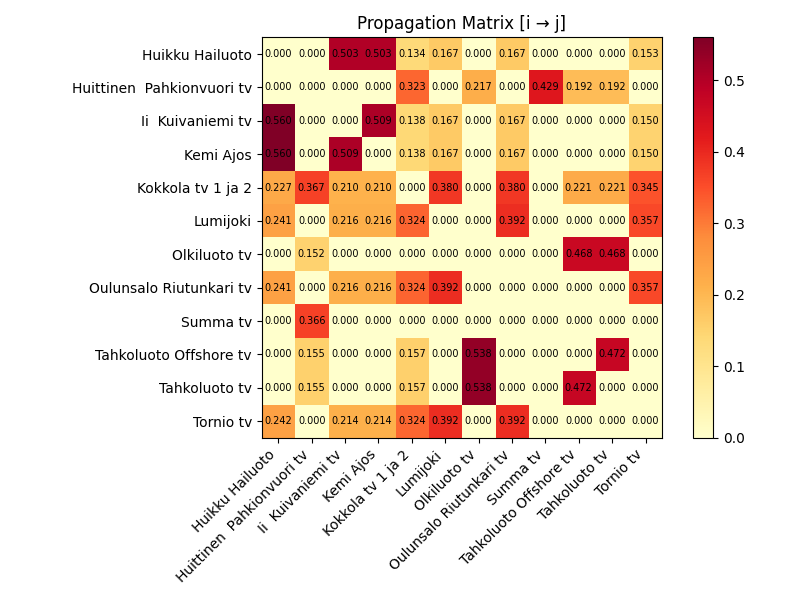
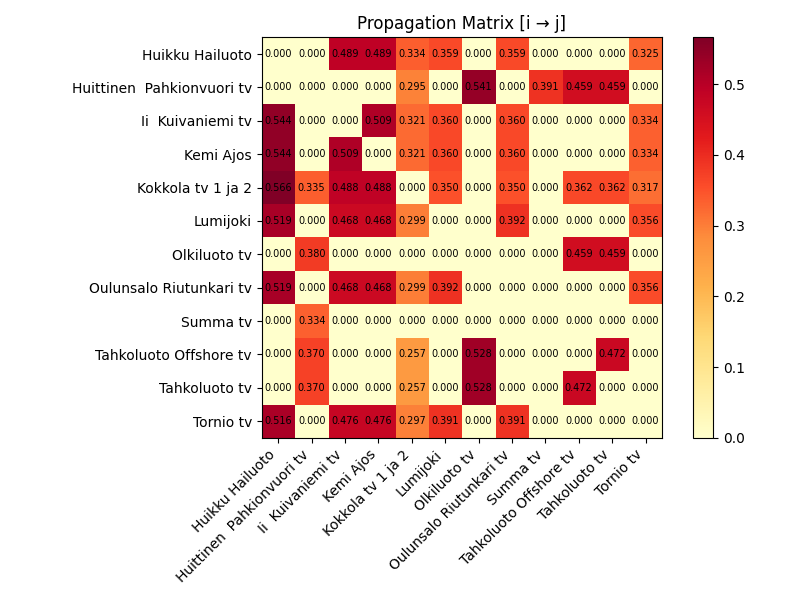
task 13 improvement part 2

diff --git a/probability.py b/probability.py
@@ -4,8 +4,11 @@ import matplotlib.pyplot as plt
 import os 
 import networkx as nx
 import scipy
+import random
+from main import pos as position
 
 #-----------------Task 12-----------------------------------
+plt.close("all")
 
 CUT_IN_THRESHOLD = 3
 CUT_OUT_THRESHOLD = 25
@@ -27,7 +30,7 @@ for file in os.listdir(DIRECTORY):
 k, loc, scale = scipy.stats.weibull_min.fit(gust_speeds, floc=0)
 overall_failure_probability = scipy.stats.weibull_min.cdf(CUT_IN_THRESHOLD, k, loc=0, scale=scale) + (1 - 
                             scipy.stats.weibull_min.cdf(CUT_OUT_THRESHOLD, k, loc=0, scale=scale))
-print(overall_failure_probability)
+#print(overall_failure_probability)
 
 risk_scores = pd.read_csv("combined.csv", usecols=["location", "risk_score_model"])
 #Adding failure probability for each turbine
@@ -37,7 +40,7 @@ risk_scores.insert(2, "failure_probability", risk_scores["risk_score_model"]
 
 edgelist = nx.to_pandas_edgelist(G)
 #print(edgelist)
-print(risk_scores)
+#print(risk_scores)
 
 #Creating propagation matrix where row is source of failure
 #and column is the target. Values in cells are probabilities for failure propagation. 
@@ -55,30 +58,36 @@ for i in range(12):
         
         source = risk_scores["location"][i]
         target = risk_scores["location"][j]
-        weight = edge_lookup.get((source, target), 0)
+        weight = np.abs(edge_lookup.get((source, target), 0))
         propagation_matrix[i,j] = weight * risk_scores["risk_score_model"][j]
 
-# Display of the propagation matrix
-fig, ax = plt.subplots(figsize=(8, 6))
-im = ax.imshow(propagation_matrix, cmap="YlOrRd")
+print(propagation_matrix)
 
-plt.colorbar(im, ax=ax)
+def display_heatmap(matrix, risk_score, title, save=False, save_path=None):
+    fig, ax = plt.subplots(figsize=(8, 6))
+    im = ax.imshow(matrix, cmap="YlOrRd")
 
-ax.set_xticks(range(12))
-ax.set_yticks(range(12))
-ax.set_xticklabels(risk_scores["location"], rotation=45, ha="right")
-ax.set_yticklabels(risk_scores["location"])
+    plt.colorbar(im, ax=ax)
 
-for i in range(12):
-    for j in range(12):
-        ax.text(j, i, f"{propagation_matrix[i, j]:.3f}",
-                ha="center", va="center", fontsize=7)
+    ax.set_xticks(range(12))
+    ax.set_yticks(range(12))
+    ax.set_xticklabels(risk_score["location"], rotation=45, ha="right")
+    ax.set_yticklabels(risk_score["location"])
 
-ax.set_title("Propagation Matrix [i → j]")
-plt.tight_layout()
-plt.savefig("plots_and_fiqures/propagation_matrix.png")
-#plt.show()
+    for i in range(12):
+        for j in range(12):
+            ax.text(j, i, f"{matrix[i, j]:.3f}",
+                    ha="center", va="center", fontsize=7)
 
+    ax.set_title(title)
+    plt.tight_layout()
+    if save and save_path is not None:
+        plt.savefig(save_path)
+
+    plt.show()
+
+display_heatmap(propagation_matrix, risk_scores, "Propagation Matrix [i → j]",
+                 save=True, save_path="plots_and_fiqures/propagation_matrix.png")
 #-----------------Task 12-----------------------------------
 adj_list = {}
 node_id = {}
@@ -162,22 +171,79 @@ for loc in all_locations:
 def plot_propagation(failed, risk_score, edgelist, title="Propagation Simulation"):
     graph = nx.from_pandas_edgelist(edgelist, "source", "target", edge_attr="weight")
     
-    pos = nx.spring_layout(graph, seed=42)  # or nx.kamada_kawai_layout(G)
+    pos = position
     
     node_colors = ["red" if node in failed else "steelblue" for node in graph.nodes()]
     node_sizes  = [risk_score["risk_score_model"][node_id[node]] * 1000 for node in graph.nodes()]
     edge_weights = [graph[u][v]["weight"] * 3 for u, v in G.edges()]
 
     nx.draw_networkx_nodes(graph, pos, node_color=node_colors, node_size=node_sizes)
-    nx.draw_networkx_labels(graph, pos, font_size=8, font_color="white")
+    nx.draw_networkx_labels(graph, pos, font_size=8, font_color="black")
     nx.draw_networkx_edges(graph, pos, width=edge_weights, alpha=0.5)
     
     plt.title(title)
     plt.axis("off")
     plt.show()
 
-fig = plt.clf()
-plot_propagation(results[0], risk_scores, edgelist)
+def plot_failure_rates(results, risk_score):
+    locations = risk_score["location"].values
+    failure_rates = [
+        np.mean([loc in s for s in results]) for loc in locations
+    ]
+    
+    # Sort by failure rate
+    sorted_idx = np.argsort(failure_rates)[::-1]
+    
+    fig, ax = plt.subplots(figsize=(10, 5))
+    bars = ax.bar(range(len(locations)), 
+                  [failure_rates[i] for i in sorted_idx],
+                  color="steelblue")
+    
+    ax.set_xticks(range(len(locations)))
+    ax.set_xticklabels([locations[i] for i in sorted_idx], rotation=45, ha="right")
+    ax.set_ylabel("Failure Rate")
+    ax.set_title("Per-Turbine Failure Rate Across Simulations")
+    ax.legend()
+    plt.tight_layout()
+    plt.show()
 
+def transition_heatmap(result_list, risk_score): 
+    heatmap = np.zeros((12, 12))
+    for i in range(12):
+        preceding = risk_score["location"][i]
+        encounters = []
+        for chase in result_list:
+            if preceding in chase:
+                encounters.append(chase)
+        for j in range(12):
+            if j==i:
+                continue
+            subsequent = risk_score["location"][j]
+            count = count_subsequent_indexes(encounters, preceding, subsequent)
+            heatmap[i, j] = count/len(encounters)
+    return heatmap
+
+def count_subsequent_indexes(check_list, preceding, subsequent):
+    count = 0
+    for scenario in check_list:
+        index = scenario.index(preceding)
+        try:
+            if scenario[index + 1] == subsequent:
+                count += 1
+        except IndexError, ValueError:
+            continue
+    
+    return count
+
+
+heatmap_for_propagation = transition_heatmap(results, risk_scores)
+
+display_heatmap(heatmap_for_propagation, risk_scores,
+                "Heatmap for propagation simulation [row → column]",
+                save=True, save_path="plots_and_fiqures/simulation_propagation.png")
+random_index = int(np.random.randint(10000))
+plot_propagation(results[random_index], risk_scores, edgelist)
+
+plot_failure_rates(results, risk_scores)
 
 #-----------------Task 14-----------------------------------
